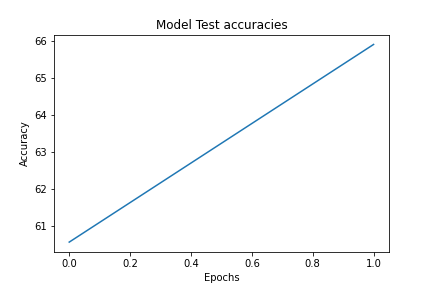
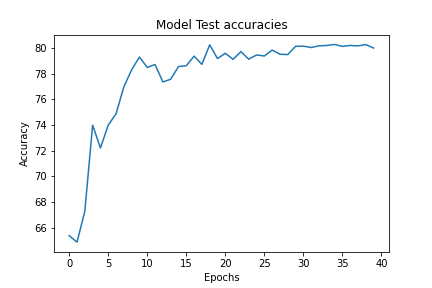
W7: updated run logs

diff --git a/w7/README.md b/w7/README.md
@@ -6,13 +6,21 @@ This notebook implements CIFAR10 classification CNN using PyTorch
 ----
 | Attribute | Value |
 |:--- | :--- |
-| Test Accuracy | 65.91 |
+| Test Accuracy | 80.28 |
 | Trained Parameter count   |94218 |
-| Total Epochs | 2 |
+| Dropout | 0.2 |
+| Total Epochs | 40 |
 
 ----
 
 ![](Accuracies.png)
+
+The model uses:
+* 3x3 Convolution
+* 1x1 / Pointwise Convolution
+* Dilated / Atrous Convolution
+* Depthwise Separable Convolution
+* Max Pooling
 
 To run 
 
